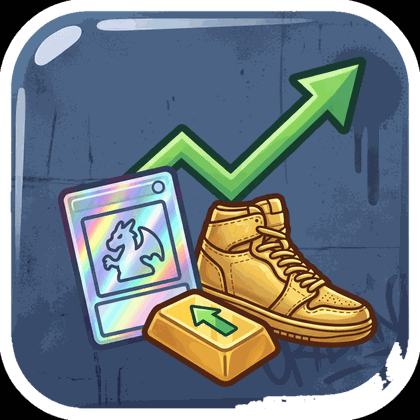
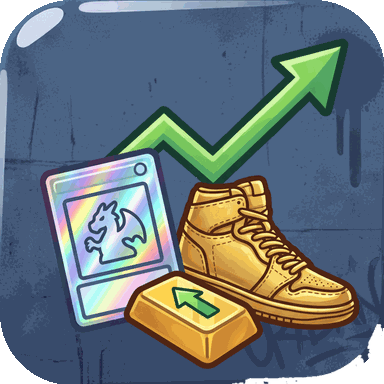
Trophées : chaque succès gagné donne sa statuette dans ta collection (Portefeuille), avec une cote, et elle se revend ; les trophées des missions se revendent aussi ; vitrine sans limite de place ; icône « reventes » sans coins blancs

diff --git a/js/ui.js b/js/ui.js
@@ -54,7 +54,7 @@
   // une carte de sport s'affiche TOUJOURS comme une vraie carte (format carte, cadre selon la rareté), jamais comme un simple écusson
   function itemPic(it) {
     if (it.cat === 'card') return `<span class="card-mini">${miniCard(it)}</span>`;   // toutes les cartes au même format
-    return it.img ? (has(it.img) ? pic(it.img) : teamCrest(it.team[0], it.team[1])) : pic(`item-${it.id}`, D.ITEM_CATS[it.cat].icon);
+    return it.img ? (has(it.img) || !it.team ? pic(it.img, D.ITEM_CATS[it.cat].icon) : teamCrest(it.team[0], it.team[1])) : pic(`item-${it.id}`, D.ITEM_CATS[it.cat].icon);
   }
   // « Joueuse de l'Union Graffiti », « Joueur du FC Bitume », « Joueur des Night Hoopers »
   function playerOf(it) {
@@ -2097,7 +2097,7 @@
     const cards = G.cardsLive(), haveCards = cards.filter(i => (s.owned[i.id] || []).length).length;
     const winRate = S.bets ? Math.round((S.betsWon || 0) / S.bets * 100) : 0;
     const RK = { L: 4, E: 3, R: 2, C: 1 }, best = Object.keys(s.owned).filter(id => s.owned[id].length && G.item(id).cat === 'card').map(id => ({ it: G.item(id), v: G.sellPrice(id), paid: s.owned[id][0].paid })).sort((a, b) => (RK[b.it.r] || 0) - (RK[a.it.r] || 0) || b.v - a.v).slice(0, 3);
-    const trophies = D.ITEMS.filter(i => i.cat === 'trophy').map(t => ({ t, has: (s.owned[t.id] || []).length, q: D.QUESTS.find(q => q.trophy === t.id) }));
+    const trophies = D.ITEMS.filter(i => i.cat === 'trophy' && !i.ach).map(t => ({ t, has: (s.owned[t.id] || []).length, q: D.QUESTS.find(q => q.trophy === t.id) }));
     // seuls les trophées qui ont leur image sont exposés (les autres arrivent avec les lots succès)
     const achs = D.ACHIEVEMENTS.filter(a => has('ach-' + a.id)).map(a => ({ a, done: !!(s.ach && s.ach[a.id]), v: Math.min(a.n, G.achValue(a)) }));
     const own = skinsOwned();

diff --git a/js/data.js b/js/data.js
@@ -274,7 +274,7 @@
     gem:     { name: 'Raretés',   lvl: 7, icon: '💎', shop: 'bijou', place: 'safe' },
     car:     { name: 'Voitures',  lvl: 10, icon: '🚗', shop: 'garage', place: 'park' },
     moto:    { name: 'Motos',     lvl: 10, icon: '🏍', shop: 'garage', place: 'park' },
-    trophy:  { name: 'Trophées',  lvl: 1, icon: '🏆', noBuy: true }
+    trophy:  { name: 'Trophées',  lvl: 1, icon: '🏆', noBuy: true, place: 'vitrine' }   // vitrine : sans limite de place
   };
   const ITEMS = [
     { id: 'c-rookie',   cat: 'card',    name: 'Carte rookie Ndiaye',     r: 'R', p0: 18,    vol: .05 },
@@ -719,6 +719,8 @@
     {"id": "w10m", "name": "Multimillionnaire", "txt": "Atteins 10 M de patrimoine.", "stat": "worth", "n": 10000000, "lingots": 40, "art": "a golden skyscraper"},
     {"id": "lvl21", "name": "Au sommet", "txt": "Atteins le niveau maximum (40).", "stat": "!lvl", "n": 40, "lingots": 30, "art": "a golden crown on a cushion"}
   ];
+  // chaque succès gagné donne sa statuette : un objet de collection qui a une cote et se revend (comme les trophées des missions)
+  ACHIEVEMENTS.forEach(a => ITEMS.push({ id: 'a-' + a.id, cat: 'trophy', ach: a.id, name: a.name, r: a.lingots >= 25 ? 'E' : a.lingots >= 10 ? 'R' : 'C', p0: 20 + a.lingots * 18, vol: .04, img: 'ach-' + a.id }));
   const TIPS = [
     'Un tuyau du Kiosque, c\'est un avis, pas une prophétie. Même le journaliste parie mal.',
     'Momo dit qu\'il a déjà gagné un ×100 à la machine. Momo dit beaucoup de choses.',

diff --git a/js/game.js b/js/game.js
@@ -708,7 +708,6 @@
     emit('change'); return { p };
   }
   function sellItem(id) {
-    if (item(id) && item(id).cat === 'trophy') return { err: 'Un trophée ne se vend pas.' };
     const a = st.owned[id]; if (!a || !a.length) return { err: 'Tu n\'en as pas.' };
     const e = a.shift(); if (!a.length) delete st.owned[id];
     const p = sellPrice(id); addCash(p);
@@ -1267,6 +1266,9 @@
     const first = !st.ach, got = st.ach = st.ach || {}, bulk = [];
     const fresh = [];
     D.ACHIEVEMENTS.forEach(a => { if (!got[a.id] && achValue(a) >= a.n) { got[a.id] = now(); addLingots(a.lingots); fresh.push(a); } });
+    // sa statuette arrive dans ta collection (une seule fois : revendue, elle ne revient pas)
+    const gi = st.achItem = st.achItem || {};
+    D.ACHIEVEMENTS.forEach(a => { if (got[a.id] && !gi[a.id] && (!window.ASSETS || window.ASSETS.includes('ach-' + a.id))) { gi[a.id] = now(); (st.owned['a-' + a.id] = st.owned['a-' + a.id] || []).push({ paid: 0, t: now() }); } });
     // plus de 2 d'un coup (nouveaux trophées ajoutés au jeu) : une seule fenêtre récap au lieu d'une cascade
     if (first || fresh.length > 2) { if (fresh.length) emit('achBulk', fresh); } else fresh.forEach(a => emit('achievement', a));
   }

diff --git a/game.html b/game.html
@@ -100,7 +100,7 @@
   // Chargement du jeu. En local : les fichiers du dossier. Mis à jour depuis internet (index.html) : le code vient
   // de raw.githubusercontent (rapide et toujours à jour), les images du dossier local quand on joue sur son ordi.
   (function () {
-    var V = '?v=296', FILES = ['js/layout.js', 'js/data.js', 'js/assets.js', 'js/game.js', 'js/audio.js', 'js/ui.js', 'js/casino.js', 'js/scratch.js', 'js/balto.js', 'js/agence.js', 'js/tuto.js', 'js/online.js', 'js/push.js'].slice(), CSS = 'css/style.css';
+    var V = '?v=297', FILES = ['js/layout.js', 'js/data.js', 'js/assets.js', 'js/game.js', 'js/audio.js', 'js/ui.js', 'js/casino.js', 'js/scratch.js', 'js/balto.js', 'js/agence.js', 'js/tuto.js', 'js/online.js', 'js/push.js'].slice(), CSS = 'css/style.css';
     var m = document.baseURI.match(/^https:\/\/cdn\.jsdelivr\.net\/gh\/([^@]+)@([^/]+)\//);
     if (!m) {
       document.write('<link rel="stylesheet" href="' + CSS + V + '">');
